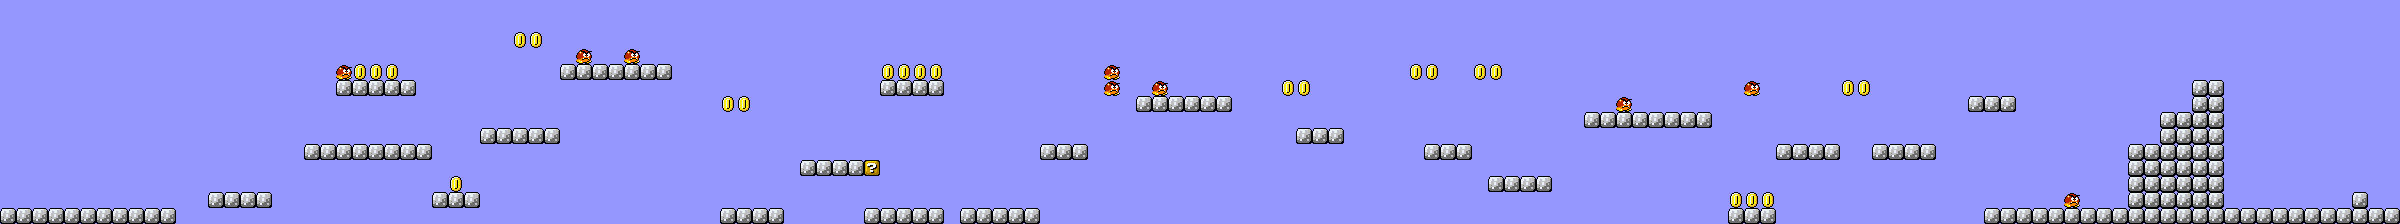
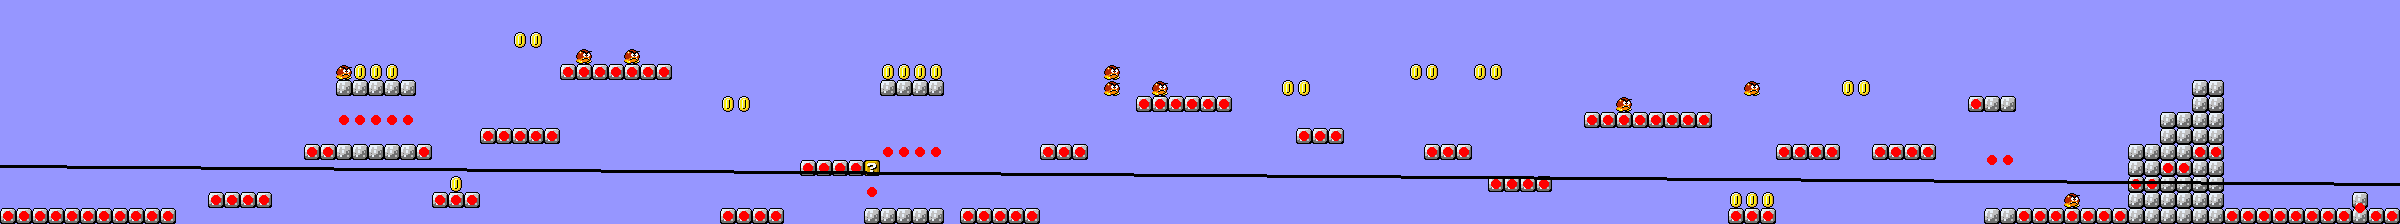
update level draw

diff --git a/sample_mario.py b/sample_mario.py
@@ -24,7 +24,7 @@ class MarioLevel:
     pipe_intset = {6, 7, 8, 9}
     textures = [
         
-        pg.image.load(PROJ_DIR+f'/sample/mario/assets/tile-{i}.png')
+        pg.image.load(PROJ_DIR+f'/assets/tile-{i}.png')
         for i in range(num_tile_types)
     ]
 
@@ -62,9 +62,7 @@ class MarioLevel:
                 MarioLevel.textures[tile_id],
                 (j * tex_size, i * tex_size, tex_size, tex_size)
             )
-        if save_path:
-            # safe_path = get_path(save_path)
-            pg.image.save(img, save_path)
+        
         return img
 
     def save(self, fpath):
@@ -301,15 +299,57 @@ def traverse_level_files(path='levels/train'):
         name = lvl_path.split('\\')[-1][:-4]
         yield lvl, name
 
+def save_img(img,save_path) -> None:
+    # safe_path = get_path(save_path)
+    pg.image.save(img, save_path)
 
+def cal_line(x_list,y_list):
+    X = np.array(x_list)
+    Y = np.array(y_list)
+
+    mean_X = np.mean(X)
+    mean_Y = np.mean(Y)
+
+    numerator = np.sum((X - mean_X) * (Y - mean_Y))
+    denominator = np.sum((X - mean_X) ** 2)
+    slope = numerator / denominator
+    intercept = mean_Y - slope * mean_X
+
+    predicted_Y = slope * X + intercept
+    return slope,intercept
+BLACK=(0,0,0)
+RED = (255, 0, 0)
 if __name__ == '__main__':
     import os
+    
+    tex_size = MarioLevel.tex_size
     for i in range(1, 9):
         for j in range(1, 4):
             file_name = PROJ_DIR+'/levels/original/alldata/mario-{0}-{1}.txt'.format(i, j)
             if os.path.exists(file_name):
                 lvl = MarioLevel.from_txt(file_name)
-                print(lvl.to_num_arr())
+                level=GameLevel2D(lvl.to_num_arr().tolist())
                 
                 
-                lvl.to_img(PROJ_DIR+'/levels/original/alldata/mario-{0}-{1}.png'.format(i, j))
+                """ 
+                'c-i': {'X': 0, 'S': 1, '-': 2, '?': 3, 'Q': 4, 'E': 5, '<': 6,
+                '>': 7, '[': 8, ']': 9, 'o': 10}
+                """
+                value_dict={2:1,5:2,7:1,8:1}
+                print(GameLevel2D.calculate_leniency(obj=level,value_dict=value_dict))
+                
+                weight_dict={0:1,1:1,2:0,3:1,4:1,5:0,6:1,7:1,8:1,9:1,10:0}
+                x_list,y_list=level.get_barycentre(weight_dict)
+                
+                img = lvl.to_img()
+                for k in range(len(x_list)):
+                    x=x_list[k]
+                    y=y_list[k]    
+                    pg.draw.circle(img,RED,(x*tex_size+tex_size/2,y*tex_size-tex_size/2),5)
+                
+                k,b=cal_line(x_list,y_list)
+                st=(0,b*tex_size)
+                ed=(level.columns*tex_size,(k*level.columns+b)*tex_size)
+                pg.draw.line(img,BLACK,st,ed, 3)
+                
+                save_img(img,PROJ_DIR+'/levels/original/alldata/mario-{0}-{1}.png'.format(i, j))

diff --git a/divtools/model/game_level_2d.py b/divtools/model/game_level_2d.py
@@ -41,7 +41,7 @@ class GameLevel2D(Model):
                     raise ValueError(f"object contain undefined value : {obj.map[x][y]}")
                 result+=value_dict.get(obj.map[x][y],0)
         
-        return result
+        return result/obj.rows/obj.columns
     
     def get_barycentre(self,value_dict:Dict[int,float])-> Tuple[List[float],List[float]]:
         def calculate_barycentre(grid:List[int],value_dict:[int,float])->float:

diff --git a/sample_graph.py b/sample_graph.py
@@ -1,5 +1,5 @@
 import numpy as np
-from graph.hexbin_graph import draw_hexbin
+from divtools.graph.hexbin_graph import draw_hexbin
 
 import logging
 logger= logging.getLogger(__name__)
